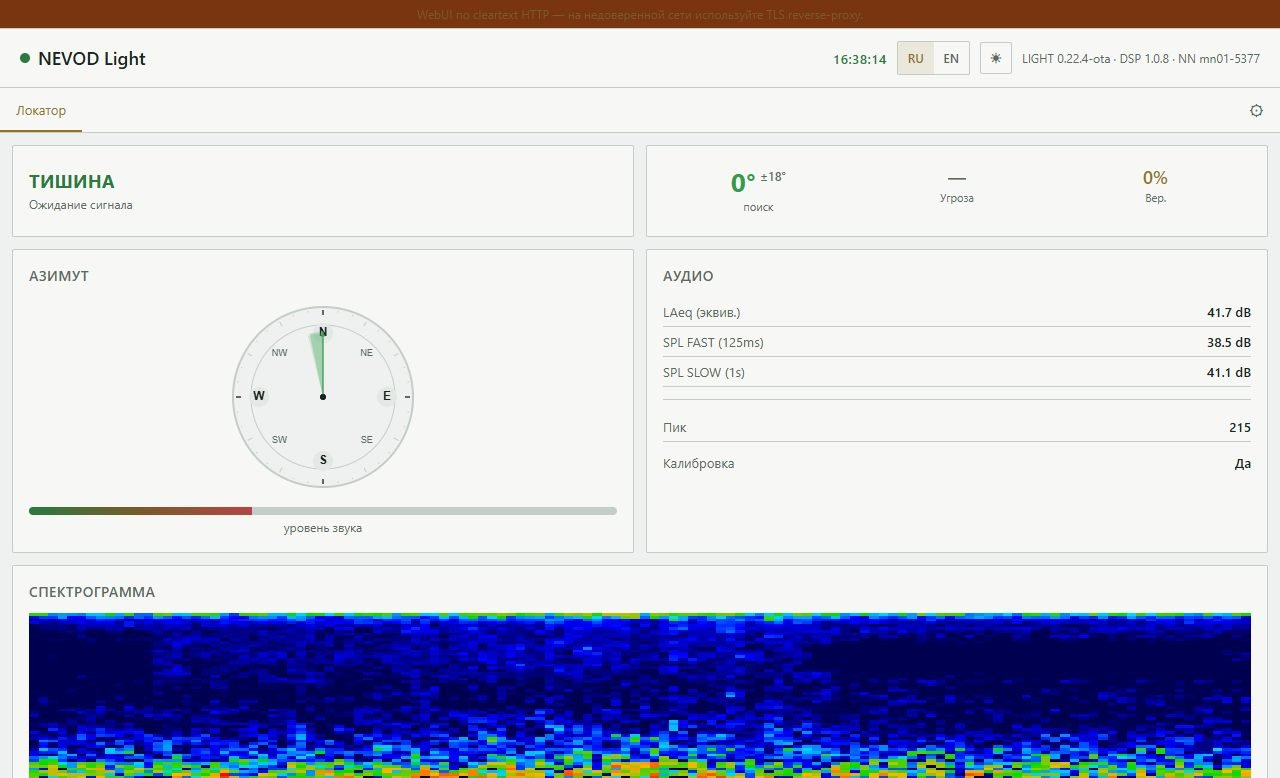
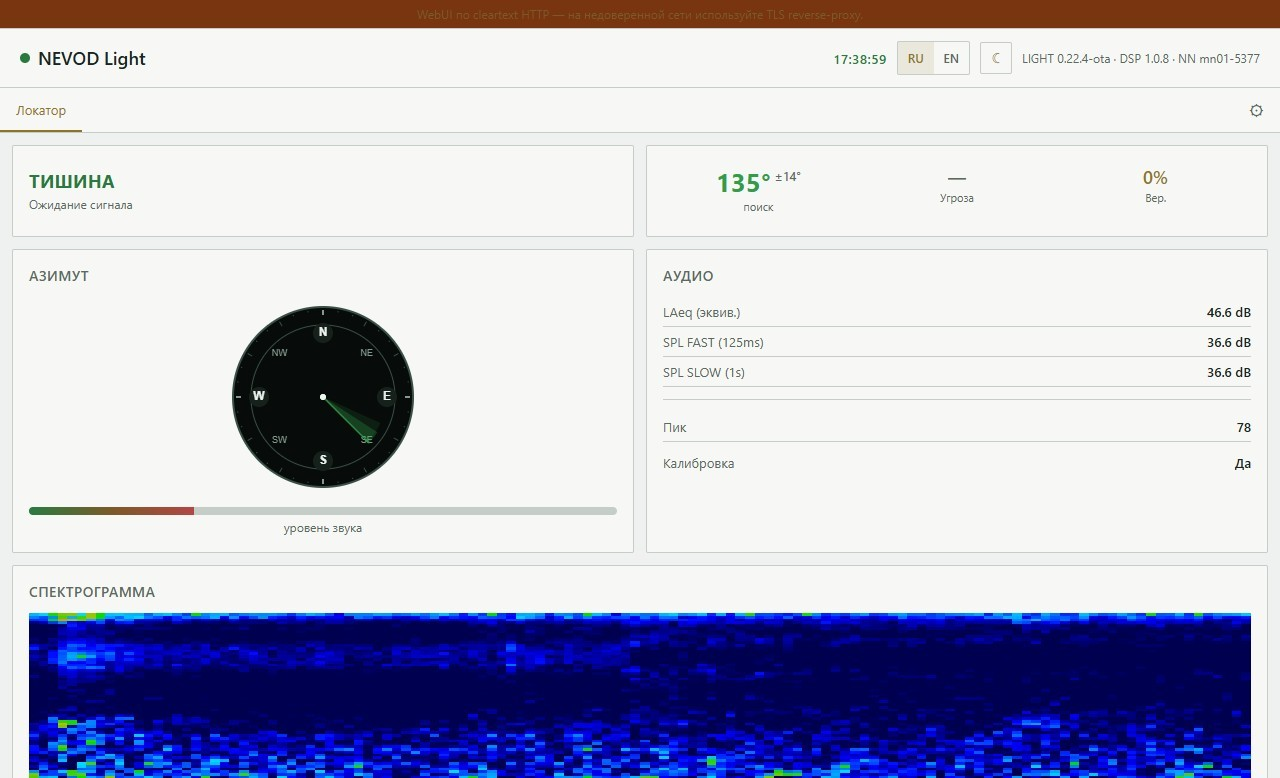
fix(docs): пара скринов WebUI с одной платы день/ночь
Оба кадра — Light 2C46E4 в одной сессии при замороженном UI; отличается только тема.

diff --git a/docs/index.html b/docs/index.html
@@ -86,8 +86,8 @@
     </header>
 
     <figure class="shot">
-      <img class="shot-dark" src="assets/gui.jpg?v=full" alt="" width="1280" height="778" fetchpriority="high" />
-      <img class="shot-light" src="assets/gui-light.jpg?v=1" alt="" width="1280" height="778" decoding="async" />
+      <img class="shot-dark" src="assets/gui.jpg?v=pair2" alt="" width="1280" height="778" fetchpriority="high" />
+      <img class="shot-light" src="assets/gui-light.jpg?v=pair2" alt="" width="1280" height="778" decoding="async" />
       <figcaption data-i18n="shot.cap">В браузере видно, откуда звук.</figcaption>
     </figure>
 
